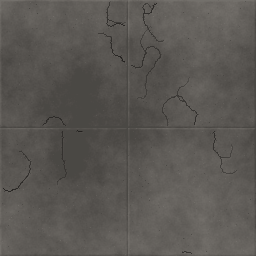
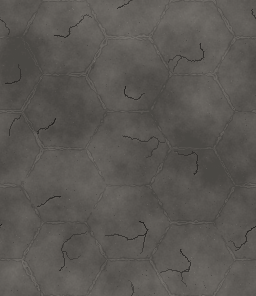
Floor texture: joints on a hex honeycomb, and the tile stops being square
The polished-concrete floor's control joints were a 2x2 grid of 128px square
panels — a 0/90-degree seam family, which on a hexagonal board is the one
pattern that argues with every edge of the hull. The joints now run along a
honeycomb whose cells are pointy-left-right (vertices at 0/60/120/...), the
same orientation as the hull, so the floor's grain runs parallel to the six
edges instead of cutting across them. The surface itself is untouched:
same troweled mottle, same aggregate grain, same FFT noise (periodic by
construction, so it survived the reshape unchanged).

THE TILE IS NO LONGER SQUARE, and that is the whole trick.
tileSample/tileSampleF are square-torus wraps (x mod texW, y mod texH), so
the image must hold a whole number of lattice periods on BOTH axes. A hex
lattice's fundamental rectangle has aspect sqrt(3):1 — irrational — so no
square image can hold an integer number of REGULAR hexes. Forcing the old
256x256 costs 15% anisotropy (visibly squashed cells). 256x296 costs 0.13%:

  COL_DX = 64  ->  x period 128,  256 / 128 = 2 exactly
  ROW_DY = 74  ->  y period  74,  296 /  74 = 4 exactly

Neither renderer needed a line changed — both already wrap per-axis and
derive their tile block from floorTex.width/height.

The honeycomb is computed as the VORONOI diagram of the centre lattice: a
pixel's distance to the nearest joint is half the gap between its nearest and
second-nearest centre. No polygon clipping, no per-edge cases, and periodic
[…]

diff --git a/scripts/art/build_floor.py b/scripts/art/build_floor.py
@@ -1,16 +1,38 @@
 #!/usr/bin/env python3
-"""Bake data/arena_floor.png: a seamless 256x256 polished-concrete tile.
+"""Bake data/arena_floor.png: a seamless polished-concrete tile on a HEX grid.
 
-Replaces the old brown flagstone floor with grey polished concrete: broad
-troweled mottle, fine aggregate grain, subtle embossed panel seams on the
-tile borders and center lines (so the tile seam IS a seam and tiling stays
-seamless), and a few meandering hairline cracks per panel.
+The surface is unchanged — broad troweled mottle, fine aggregate grain, a few
+meandering hairline cracks. What changed is the JOINT LATTICE. It used to be a
+2x2 grid of 128px square panels, whose seams are a 0/90-degree family; on a
+hexagonal board that is the one pattern that argues with every edge of the
+hull. The joints now run along a hexagonal honeycomb sharing the hull's own
+axes, so the floor's grain and the field's shape agree.
+
+PERIODICITY IS THE HARD PART, and it is why this tile is not square.
+`tileSample`/`tileSampleF` are square-torus wraps (`x mod texW`, `y mod texH`),
+so the image must contain a whole number of lattice periods on BOTH axes or the
+wrap shows as a visible seam. A hex lattice has a rectangular fundamental cell,
+but its aspect is sqrt(3):1 — irrational — so no square image can hold an
+integer number of REGULAR hexes. Forcing it into 256x256 costs 15% anisotropy
+(visibly squashed hexes). Letting the image be 256x296 instead costs 0.13%:
+
+  columns step  COL_DX = 64 px  ->  x period 128, and 256 / 128 = 2 exactly
+  rows step     ROW_DY = 74 px  ->  y period  74, and 296 /  74 = 4 exactly
+
+which is a circumradius of 42.67 across and 42.72 down. Both are exact integer
+divisions, so the wrap is seamless by construction rather than by tuning.
+
+The cells are pointy-left-right (vertices at 0/60/120/180/240/300 degrees), the
+same orientation as the arena hull, so the joints run parallel to the hull's
+six edges instead of cutting across them.
 
 The luminance envelope is a CONTRACT with sim.nim's endzone ember glow
-(emberThroughCracks): pixels at/above EndzoneFaceLevel (66) get no glow,
-pixels at/below EndzoneCrackLevel (34) glow fully. The polished surface —
-including the light bevel seams — sits safely above 66; only the hairline
-crack bottoms dip to ~26..34, so team ember confines to the actual cracks.
+(emberThroughCracks, map_art.nim:664): pixels at/above EndzoneFaceLevel (66)
+get no glow, pixels at/below EndzoneCrackLevel (34) glow fully. The polished
+surface — including the joint bevels — sits safely above 66; only the hairline
+crack bottoms dip to ~26..34, so team ember confines to the actual cracks. Break
+it and the endzone either floods with team colour or shows no glow at all. The
+run prints both figures; check them.
 
 Usage: python3 scripts/art/build_floor.py  (writes data/arena_floor.png)
 """
@@ -19,8 +41,17 @@ import numpy as np
 from PIL import Image
 from pathlib import Path
 
-SIZE = 256
+# Image size and hex lattice. See the module docstring: these four numbers are
+# locked to each other, and W % (2 * COL_DX) == 0 and H % ROW_DY == 0 are what
+# make the torus wrap seamless.
+W, H = 256, 296
+COL_DX = 64          # horizontal step between adjacent hex columns (1.5 * R)
+ROW_DY = 74          # vertical step within a column (sqrt(3) * R)
+assert W % (2 * COL_DX) == 0, "odd/even column offset must repeat across the wrap"
+assert H % ROW_DY == 0, "rows must divide the height exactly"
+
 rng = np.random.default_rng(1177)
+
 
 # Neutral-warm grey ramp (the house style forbids cold blue-slate): each
 # pixel's luminance v maps to rgb with a whisper of warmth, never a hue.
@@ -31,11 +62,11 @@ def to_rgb(v):
     return np.stack([r, g, b], axis=-1).astype(np.uint8)
 
 
-def tileable_noise(size, cutoff, power):
+def tileable_noise(h, w, cutoff, power):
     """FFT-synthesized noise — periodic by construction, hence seamless."""
-    spec = rng.normal(size=(size, size)) + 1j * rng.normal(size=(size, size))
-    fy = np.fft.fftfreq(size)[:, None]
-    fx = np.fft.fftfreq(size)[None, :]
+    spec = rng.normal(size=(h, w)) + 1j * rng.normal(size=(h, w))
+    fy = np.fft.fftfreq(h)[:, None]
+    fx = np.fft.fftfreq(w)[None, :]
     f = np.hypot(fx, fy)
     f[0, 0] = 1.0
     falloff = np.where(f <= cutoff, 1.0 / (f ** power), 0.0)
@@ -46,87 +77,118 @@ def tileable_noise(size, cutoff, power):
 
 
 # --- Surface: troweled mottle + faint drift + fine grain -------------------
-lum = np.full((SIZE, SIZE), 88.0)
-lum += tileable_noise(SIZE, 0.04, 1.6) * 7.0    # broad trowel blotches
-lum += tileable_noise(SIZE, 0.12, 1.3) * 4.0    # mid-scale clouding
-lum += tileable_noise(SIZE, 0.50, 0.9) * 2.2    # fine sanded grain
+lum = np.full((H, W), 88.0)
+lum += tileable_noise(H, W, 0.04, 1.6) * 7.0    # broad trowel blotches
+lum += tileable_noise(H, W, 0.12, 1.3) * 4.0    # mid-scale clouding
+lum += tileable_noise(H, W, 0.50, 0.9) * 2.2    # fine sanded grain
 
 # Aggregate specks: sparse 1px flecks a touch lighter/darker, plus rare
 # pinholes (polished slabs always carry a few).
-n_flecks = 900
-ys = rng.integers(0, SIZE, n_flecks)
-xs = rng.integers(0, SIZE, n_flecks)
+n_flecks = round(900 * (W * H) / (256 * 256))
+ys = rng.integers(0, H, n_flecks)
+xs = rng.integers(0, W, n_flecks)
 lum[ys, xs] += rng.normal(0, 5.5, n_flecks)
-n_pin = 70
-ys = rng.integers(0, SIZE, n_pin)
-xs = rng.integers(0, SIZE, n_pin)
+n_pin = round(70 * (W * H) / (256 * 256))
+ys = rng.integers(0, H, n_pin)
+xs = rng.integers(0, W, n_pin)
 lum[ys, xs] -= rng.uniform(14, 26, n_pin)
 
 lum = np.clip(lum, 72, 112)  # polished surface stays above the glow gate (66)
 
-# depth[y,x] in 0..1: how far a pixel dips toward crack-bottom darkness.
-# Joints and cracks write into this, then one final composite applies it.
-depth = np.zeros((SIZE, SIZE))
+# --- The hex lattice, and every pixel's distance to the nearest joint ------
+# The honeycomb is the VORONOI diagram of a triangular lattice of centres, so
+# the distance from a pixel to the nearest cell EDGE is exactly half the gap
+# between its nearest and second-nearest centre. That formulation needs no
+# polygon clipping, no per-edge case analysis, and — given a periodic set of
+# centres — is periodic for free.
+centres = []
+for i in range(W // COL_DX):
+    for j in range(H // ROW_DY):
+        centres.append((i * COL_DX, j * ROW_DY + (ROW_DY // 2 if i % 2 else 0)))
 
+yy, xx = np.mgrid[0:H, 0:W].astype(float)
+d1 = np.full((H, W), 1e9)
+d2 = np.full((H, W), 1e9)
+for cx, cy in centres:
+    # Wrapped copies, so the metric is the torus metric and the tile is seamless.
+    for ox in (-W, 0, W):
+        for oy in (-H, 0, H):
+            d = np.hypot(xx - (cx + ox), yy - (cy + oy))
+            closer = d < d1
+            d2 = np.where(closer, d1, np.minimum(d2, d))
+            d1 = np.where(closer, d, d1)
+edge_dist = (d2 - d1) * 0.5
 
-def carve(y, x, d):
-    yy, xx = int(y) % SIZE, int(x) % SIZE
-    depth[yy, xx] = max(depth[yy, xx], d)
-
-
-# --- Control joints on tile borders + center lines ------------------------
-# Placing joints AT the wrap seam hides it; the 256 tile reads as 2x2
-# polished panels of 128px. The joints are NOT dark cuts: each is a subtle
-# emboss bevel — a soft shade line beside a light catch line — so the grid
-# reads as panel seams in polished concrete, not a painted black grid. Only
-# the hairline cracks dip into the ember-glow band; joint pixels stay in
-# no-glow surface territory. A touch of noise keeps the lines from reading
-# machine-perfect.
-joint_bevel = np.zeros((SIZE, SIZE))
-for c in (0, SIZE // 2):
-    for off, dv in ((-2, -5.0), (-1, -13.0), (0, 11.0), (1, 4.5)):
-        wobble_r = 1.0 + 0.2 * tileable_noise(SIZE, 0.30, 1.0)[(c + off) % SIZE, :]
-        wobble_c = 1.0 + 0.2 * tileable_noise(SIZE, 0.30, 1.0)[:, (c + off) % SIZE]
-        joint_bevel[(c + off) % SIZE, :] += dv * wobble_r
-        joint_bevel[:, (c + off) % SIZE] += dv * wobble_c
+# --- Control joints along the honeycomb edges -----------------------------
+# The joints are NOT dark cuts: each is a soft emboss — a light catch right on
+# the seam with a shade shoulder beside it — so the lattice reads as panel
+# seams in polished concrete, not a painted black grid. Only the hairline
+# cracks dip into the ember-glow band; joint pixels stay in no-glow surface
+# territory. A wobble keeps the lines from reading machine-perfect.
+#
+# Keep this TIGHT. The square-panel tile it replaces drew a ~2px hairline and
+# was deliberately restrained; a hex lattice has half again as much seam per
+# unit area (three edge directions, not two, and smaller cells), so the same
+# profile width reads considerably louder. These gaussians are narrowed to
+# hold the floor at the old visual weight rather than turning it into a
+# honeycomb graphic.
+wobble = 0.7 * tileable_noise(H, W, 0.30, 1.0)
+t = np.abs(edge_dist + wobble)
+joint_bevel = (
+    9.0 * np.exp(-((t / 0.55) ** 2))              # light catch on the seam
+    - 11.0 * np.exp(-(((t - 1.25) / 0.60) ** 2))  # shade shoulder beside it
+)
 lum += joint_bevel
 lum = np.clip(lum, 72, 112)  # bevels stay inside the no-glow surface band
 
-# --- Hairline cracks: momentum random walks confined to panel interiors ---
-# Each panel gets 2-3 cracks seeded off a panel edge. They never cross the
-# edges, so tiling stays seamless without wrap logic.
-PANELS = [(oy, ox) for oy in (0, 128) for ox in (0, 128)]
-for oy, ox in PANELS:
-    for _ in range(rng.integers(2, 4)):
-        edge = rng.integers(0, 4)
-        if edge == 0:   y, x, ang = oy + 3.0, ox + rng.uniform(20, 108), rng.uniform(0.6, 2.5)
-        elif edge == 1: y, x, ang = oy + 125.0, ox + rng.uniform(20, 108), -rng.uniform(0.6, 2.5)
-        elif edge == 2: y, x, ang = oy + rng.uniform(20, 108), ox + 3.0, rng.uniform(-0.9, 0.9)
-        else:           y, x, ang = oy + rng.uniform(20, 108), ox + 125.0, np.pi - rng.uniform(-0.9, 0.9)
-        steps = rng.integers(45, 110)
-        strength = rng.uniform(0.55, 0.9)
-        branch_left = 1
-        for i in range(steps):
-            ang += rng.normal(0, 0.28)
-            y += np.sin(ang)
-            x += np.cos(ang)
-            if not (oy + 2 < y < oy + 126 and ox + 2 < x < ox + 126):
-                break
-            taper = strength * (1.0 - 0.5 * i / steps)
-            carve(y, x, taper)
-            # hairline sections read as ~1px; occasionally widen a hair
-            if rng.random() < 0.35:
-                carve(y + rng.integers(-1, 2), x + rng.integers(-1, 2), taper * 0.45)
-            if branch_left and rng.random() < 0.02 and i > 12:
-                branch_left -= 1
-                by, bx, bang = y, x, ang + rng.choice([-1, 1]) * rng.uniform(0.7, 1.3)
-                for j in range(int(steps * 0.4)):
-                    bang += rng.normal(0, 0.3)
-                    by += np.sin(bang)
-                    bx += np.cos(bang)
-                    if not (oy + 2 < by < oy + 126 and ox + 2 < bx < ox + 126):
-                        break
-                    carve(by, bx, taper * (1.0 - 0.6 * j / (steps * 0.4)))
+# --- Hairline cracks: momentum random walks confined to cell interiors ----
+# Each cell gets a crack seeded well inside it, walking until it nears a joint.
+# `carve` wraps, so a crack that reaches the image edge continues correctly on
+# the far side and the tile stays seamless.
+depth = np.zeros((H, W))
+
+
+def carve(y, x, d):
+    yy_, xx_ = int(y) % H, int(x) % W
+    depth[yy_, xx_] = max(depth[yy_, xx_], d)
+
+
+def edge_at(y, x):
+    return edge_dist[int(y) % H, int(x) % W]
+
+
+for cx, cy in centres:
+    if rng.random() < 0.15:
+        continue                       # not every panel is cracked
+    ang = rng.uniform(0, 2 * np.pi)
+    # Start off-centre so cracks do not all radiate from the cell's middle.
+    y = cy + rng.uniform(-12, 12)
+    x = cx + rng.uniform(-12, 12)
+    steps = rng.integers(30, 70)
+    strength = rng.uniform(0.55, 0.9)
+    branch_left = 1
+    for i in range(steps):
+        ang += rng.normal(0, 0.28)
+        y += np.sin(ang)
+        x += np.cos(ang)
+        if edge_at(y, x) < 2.5:
+            break                      # never cross a joint
+        taper = strength * (1.0 - 0.5 * i / steps)
+        carve(y, x, taper)
+        # hairline sections read as ~1px; occasionally widen a hair
+        if rng.random() < 0.35:
+            carve(y + rng.integers(-1, 2), x + rng.integers(-1, 2), taper * 0.45)
+        if branch_left and rng.random() < 0.03 and i > 10:
+            branch_left -= 1
+            by, bx = y, x
+            bang = ang + rng.choice([-1, 1]) * rng.uniform(0.7, 1.3)
+            for j in range(int(steps * 0.4)):
+                bang += rng.normal(0, 0.3)
+                by += np.sin(bang)
+                bx += np.cos(bang)
+                if edge_at(by, bx) < 2.5:
+                    break
+                carve(by, bx, taper * (1.0 - 0.6 * j / (steps * 0.4)))
 
 # --- Composite: dip lum toward crack-bottom, add a spall highlight --------
 # Full depth lands at lum ~27 (below EndzoneCrackLevel 34 -> full ember glow);
@@ -145,7 +207,49 @@ img.save(out)
 
 a = np.asarray(img).astype(int)
 l = (a[..., 0] * 30 + a[..., 1] * 59 + a[..., 2] * 11) // 100
-print(f"wrote {out}")
+print(f"wrote {out}  ({W}x{H}, {len(centres)} hex cells)")
 print(f"lum min/max/mean: {l.min()}/{l.max()}/{l.mean():.0f}")
 print(f"pixels below CrackLevel(34): {(l <= 34).mean() * 100:.1f}%  "
       f"above FaceLevel(66): {(l >= 66).mean() * 100:.1f}%")
+
+# The contract, asserted rather than eyeballed. The joint bevels are part of
+# the polished FACE: if a seam dips under 66 the endzone ember bleeds along the
+# whole lattice instead of confining to the cracks.
+joint_face = l[(edge_dist < 1.5) & (depth < 0.05)]
+print(f"joint-seam pixels (no crack): min lum {joint_face.min()} "
+      f"(must stay >= 66)")
+assert joint_face.min() >= 66, "joint bevel dipped into the ember-glow band"
+# Calibrated against the 2x2-panel tile this replaces, measured, not guessed:
+#   <=34 (full glow)   0.011%     <=45 (well into the band)  0.151%
+#   >=66 (no glow)    99.07%      min lum 33
+# Cracks are hairlines, so the full-glow floor is a few hundredths of a percent
+# by design — an earlier draft of this check demanded 0.05% and would have
+# failed the tile it was written to protect.
+assert l.min() <= 34, "no crack reaches full ember glow — endzone will look dead"
+assert (l <= 45).mean() > 0.0005, "too few crack pixels — endzone glow will not read"
+assert (l >= 66).mean() > 0.95, "too much of the face glows — endzone will flood"
+
+# Seamlessness, asserted against the DISTRIBUTION of interior transitions, not
+# their mean: crossing the wrap must be an unremarkable step, not the biggest
+# one in the tile.
+#
+# Every layer here is periodic by construction — FFT noise, an exactly periodic
+# lattice (W % 2*COL_DX == 0, H % ROW_DY == 0), cracks carved through a
+# wrapping `carve`, a spall pass built from np.roll — so this is a check on
+# that construction, not a tuning knob.
+#
+# The 2x2-panel tile it replaces would FAIL this, and did not need to pass it:
+# it put its joints ON the wrap, so its seam was the single largest transition
+# in the image (y-wrap 21.8 against an interior max of 18.4) and was hidden by
+# reading as a panel edge. This lattice does not need that trick — its wrap
+# lands mid-face — so it can be held to the stricter, honest standard.
+row_steps = np.abs(np.diff(l, axis=0)).mean(axis=1)
+col_steps = np.abs(np.diff(l, axis=1)).mean(axis=0)
+wrap_y = np.abs(l[0, :] - l[-1, :]).mean()
+wrap_x = np.abs(l[:, 0] - l[:, -1]).mean()
+print(f"wrap step vs worst interior step — "
+      f"x: {wrap_x:.2f} vs {col_steps.max():.2f}   "
+      f"y: {wrap_y:.2f} vs {row_steps.max():.2f}")
+assert wrap_x <= col_steps.max() * 1.1, "the x wrap is the tile's worst seam"
+assert wrap_y <= row_steps.max() * 1.1, "the y wrap is the tile's worst seam"
+print("contract OK")
